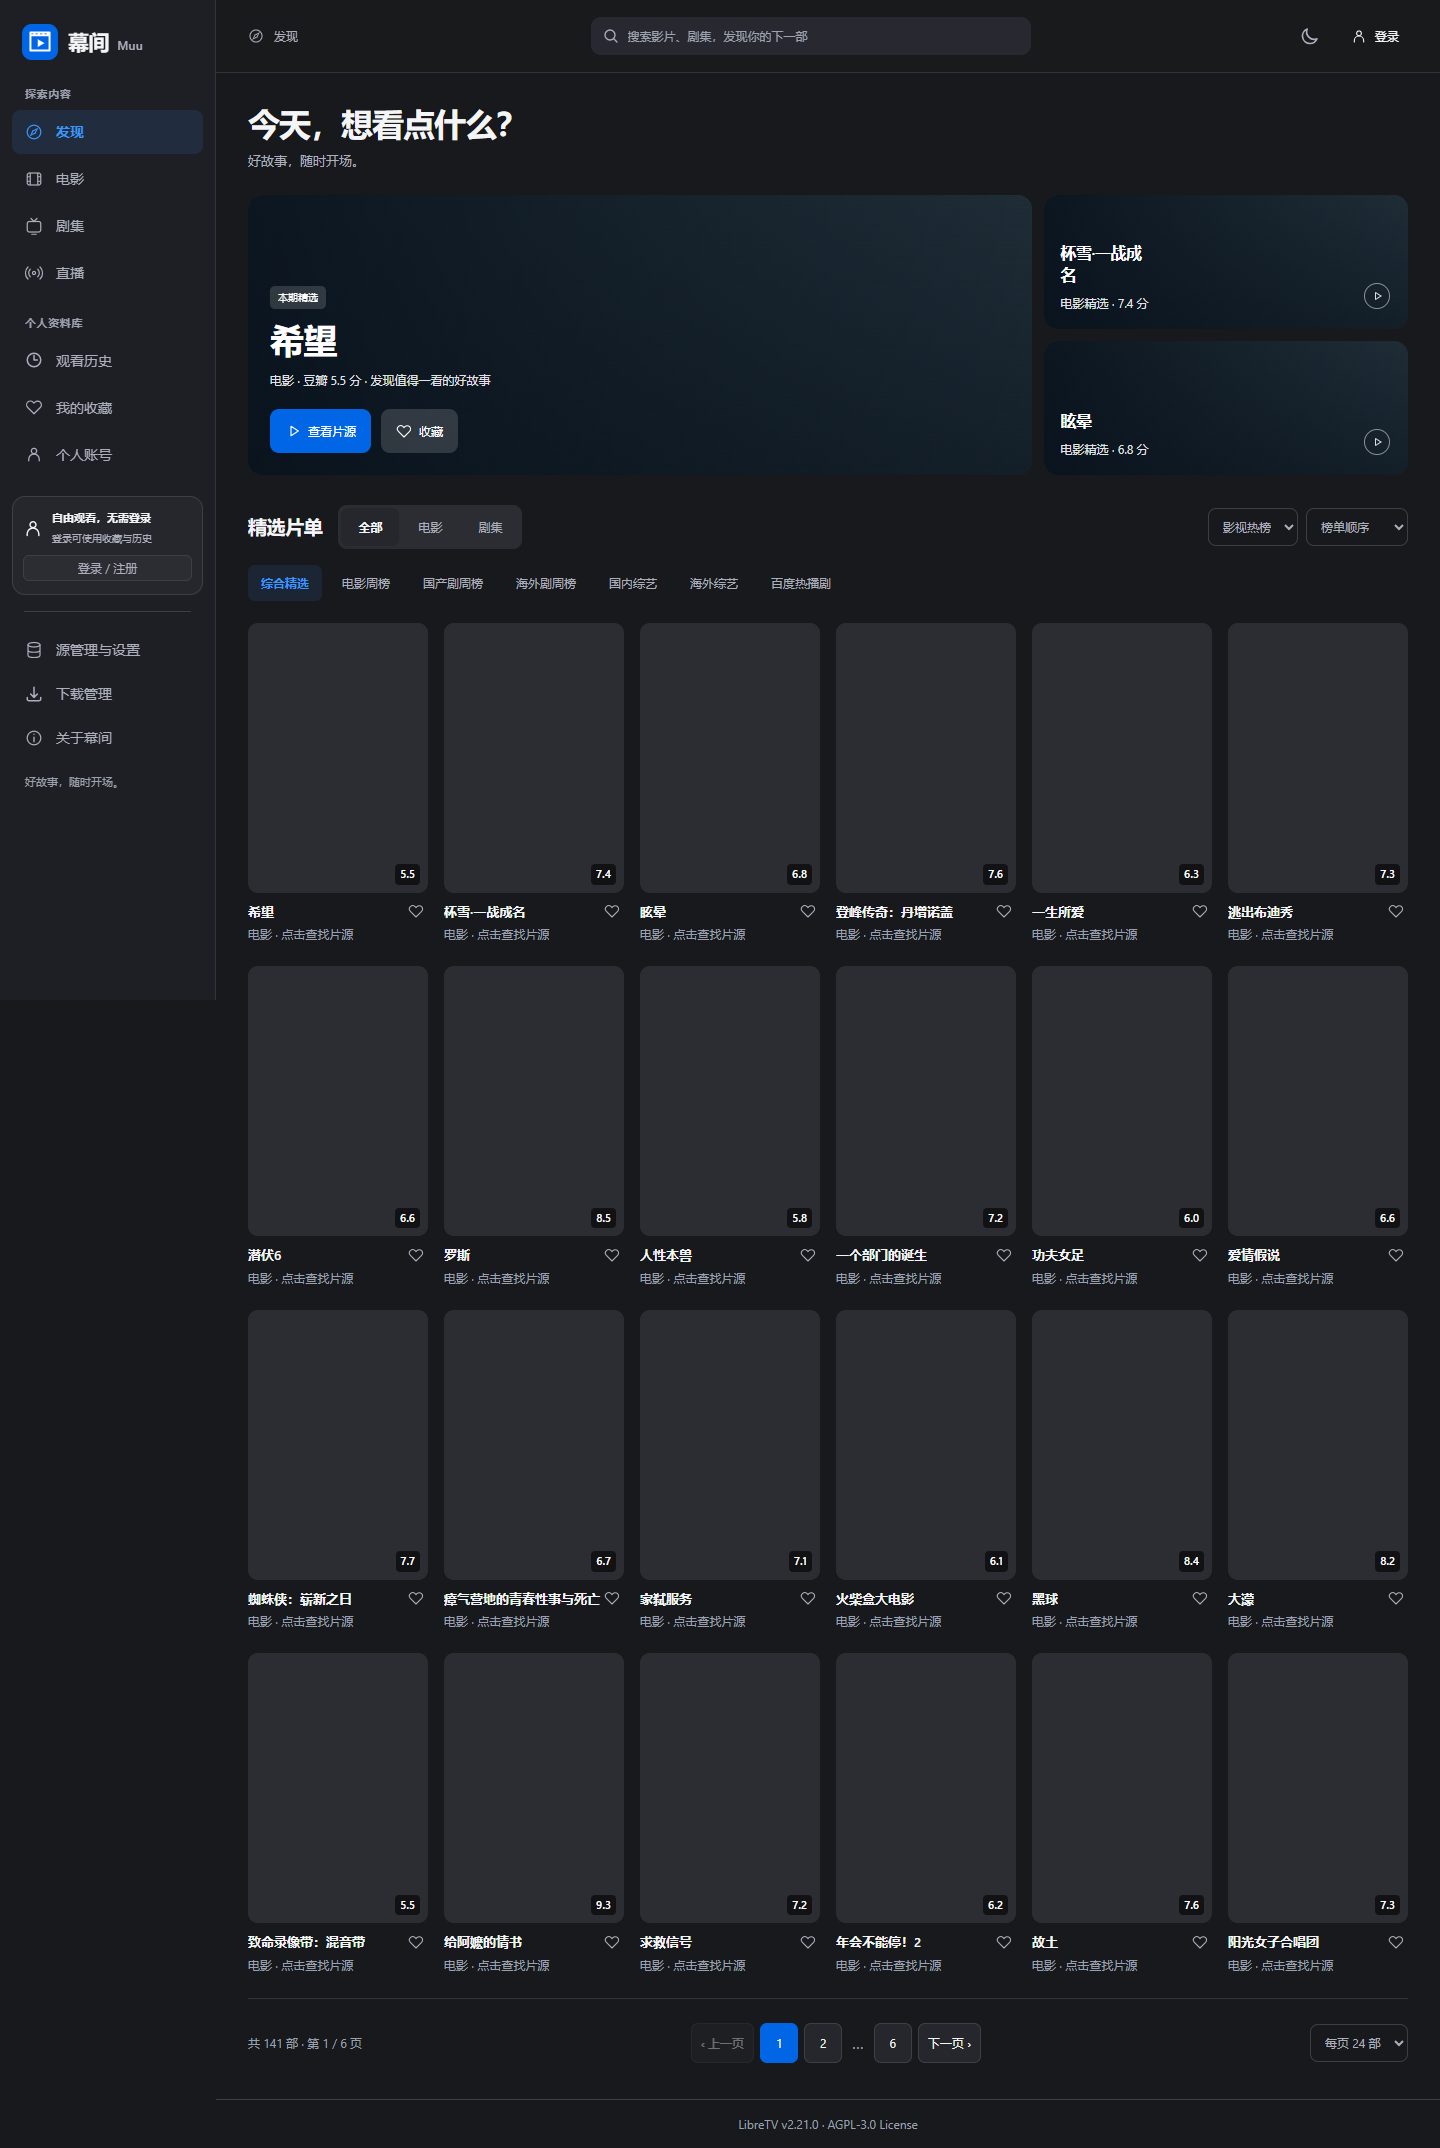
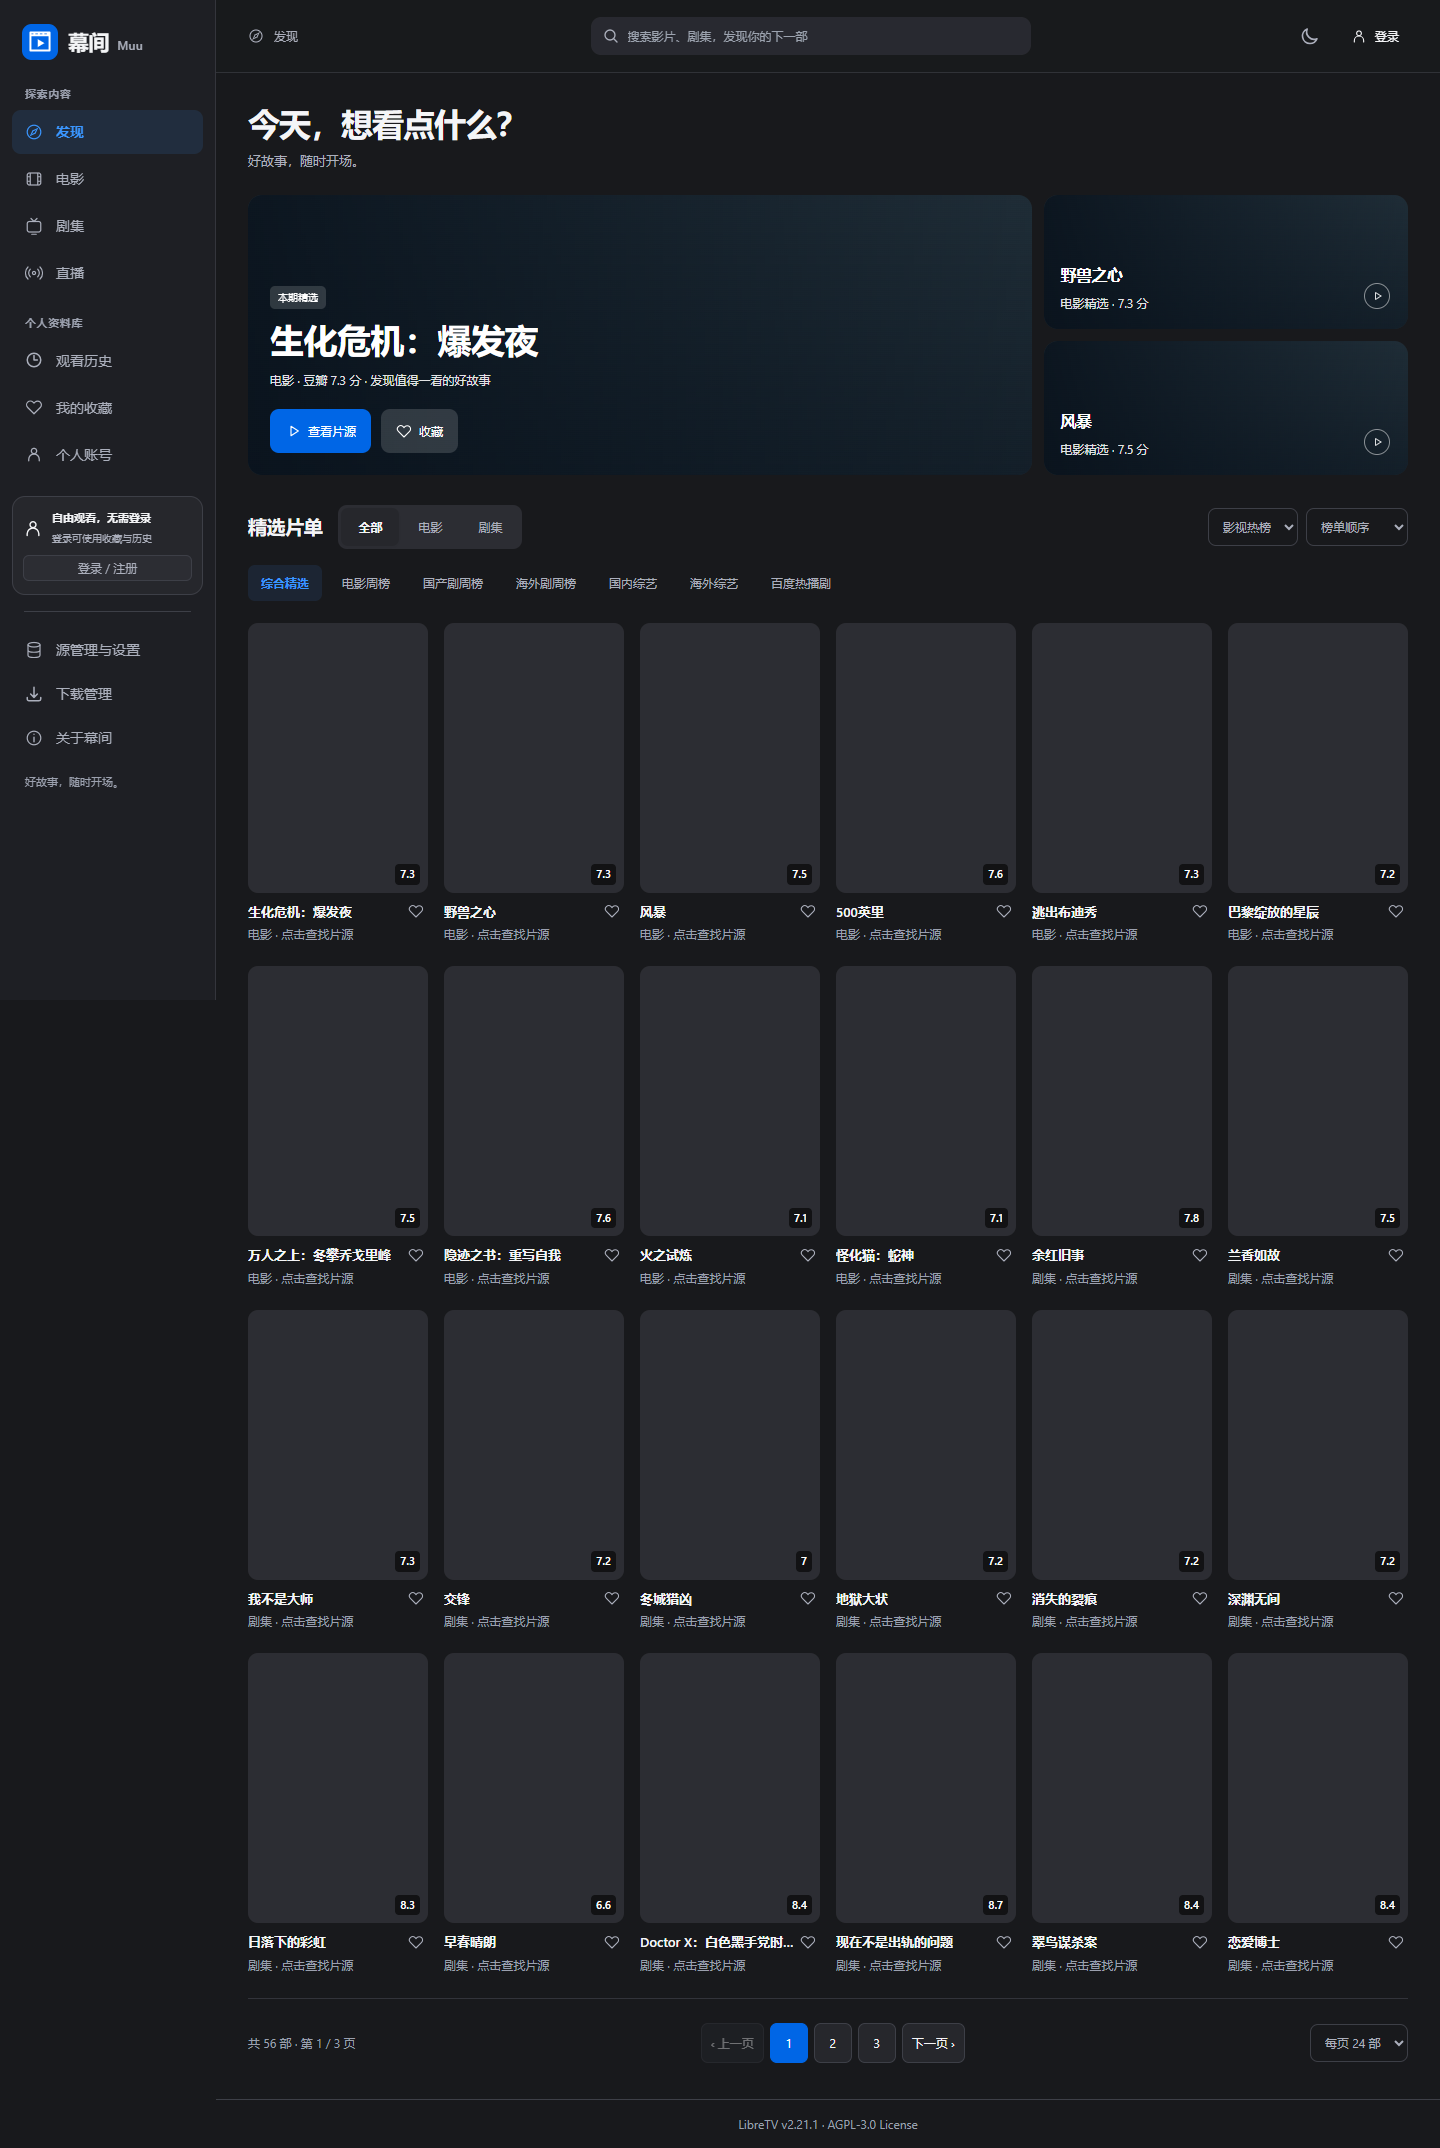
docs: record Muu production acceptance and playback limits

diff --git a/docs/iterations/003-muu/README.md b/docs/iterations/003-muu/README.md
@@ -52,4 +52,11 @@
 - CI [39764919412](https://github.com/hotpotcloud/boxmytelevison/actions/runs/39764919412) 成功，个人源持久化、版本冲突和退出后会话拒绝的服务器集成验收通过，临时账号已清理。
 - 服务器安装 89 个生产依赖用时 9 秒，继续小包上传，无 Docker。
 - 默认 6 个点播源、5 个直播源；匿名搜索返回 29 条结果、无失败源；首页 141 条、每页 24；匿名实际播放输出 720p，历史/进度/搜索/收藏全为 0，无页面异常。
-- [公网结果](verification/production-results.json)；补丁部署结果见后续记录。
+- [2.21.0 公网结果](verification/production-2.21.0-results.json)。
+
+## 最终上线（2.21.1）
+- 提交 8928fd73f4bfbdfde1a5e4398ec2bacb73664ad4，CI [39768034588](https://github.com/hotpotcloud/boxmytelevison/actions/runs/39768034588) 成功。
+- 496 项测试、类型检查、Lint、生产构建通过。服务器生产依赖安装 8 秒，账号与个人源集成检查通过，临时验收账号已清理。
+- 公网游客搜索 29 条、6 个源无失败；真实视频播放超过 2 秒、输出 1280×720；游客四类记录均为零；桌面、390px 手机无横向溢出，无页面错误。
+- 最终截图采集时片单先返回 56 部周榜，热门内容按上游可用性继续补入；此前采集 141 部。数量动态变化，界面始终展示实际去重条数。
+- [最终公网验收 JSON](verification/production-results.json) · [桌面首页](verification/production-home-desktop.png) · [桌面播放](verification/production-watch-desktop.png) · [手机播放](verification/production-watch-mobile.png)。
